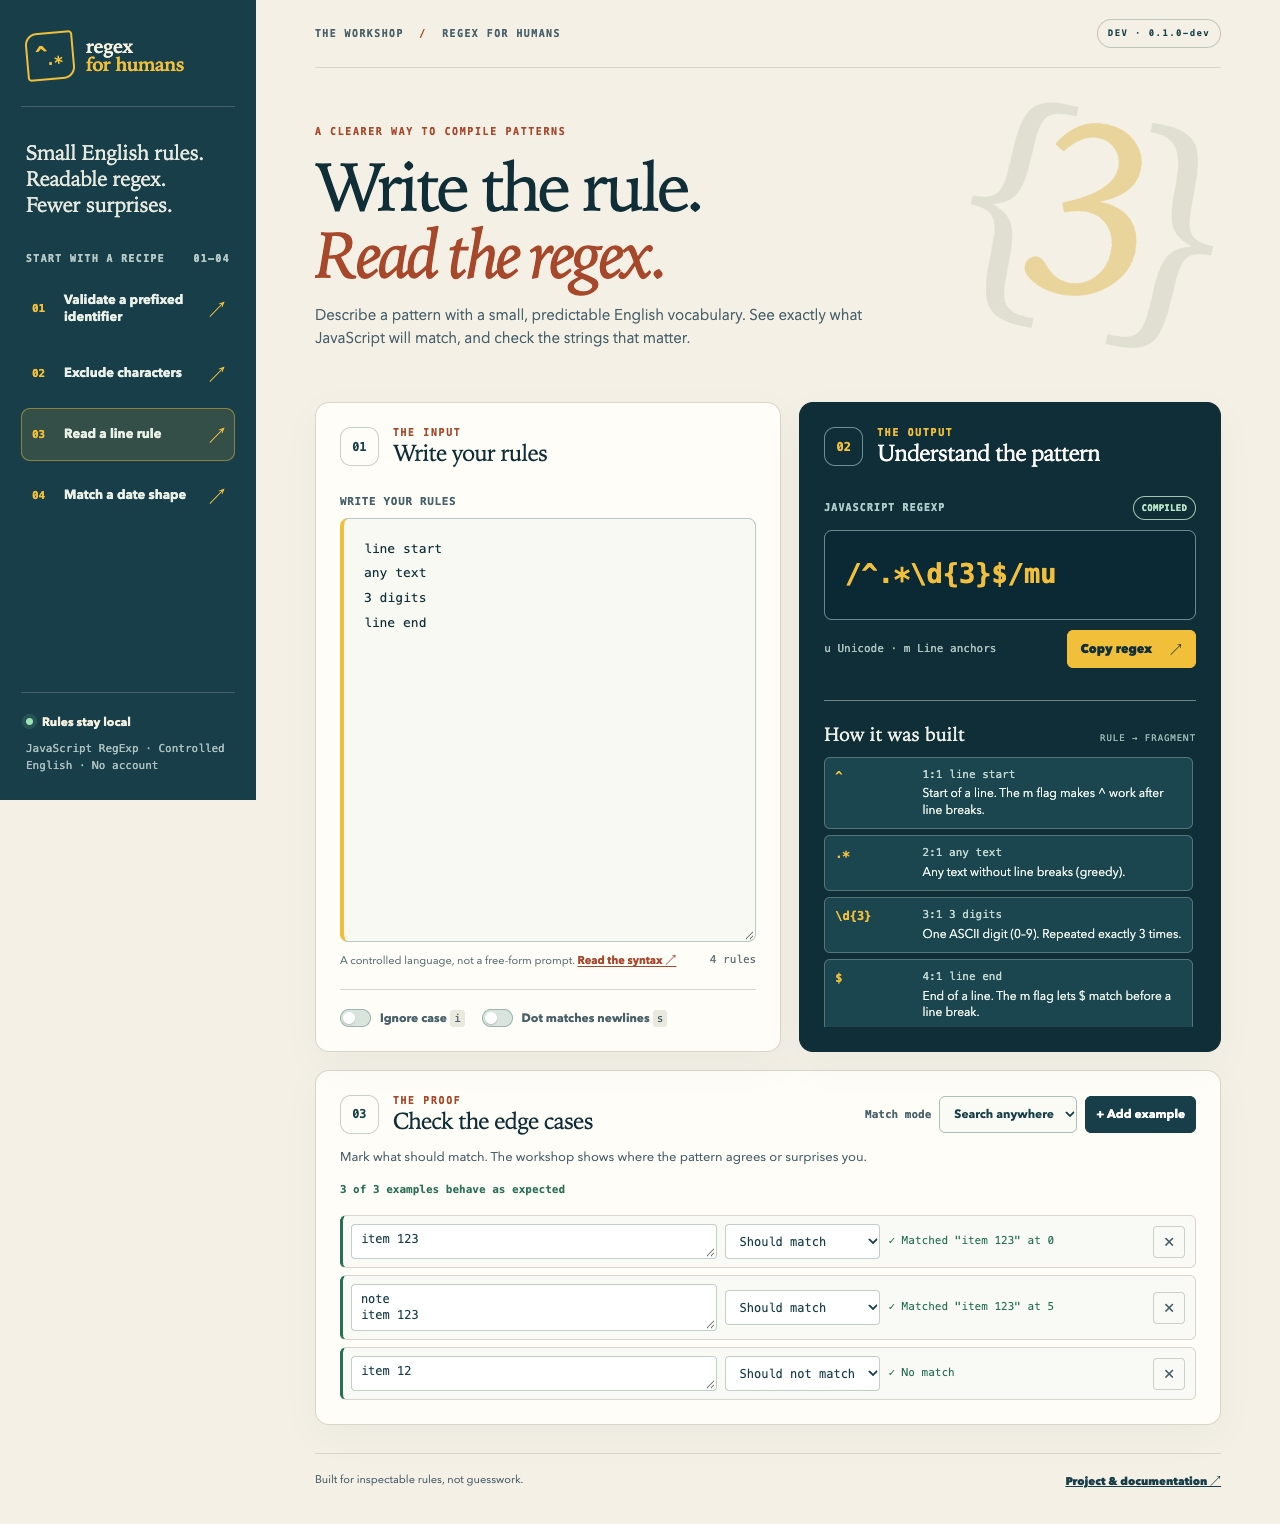
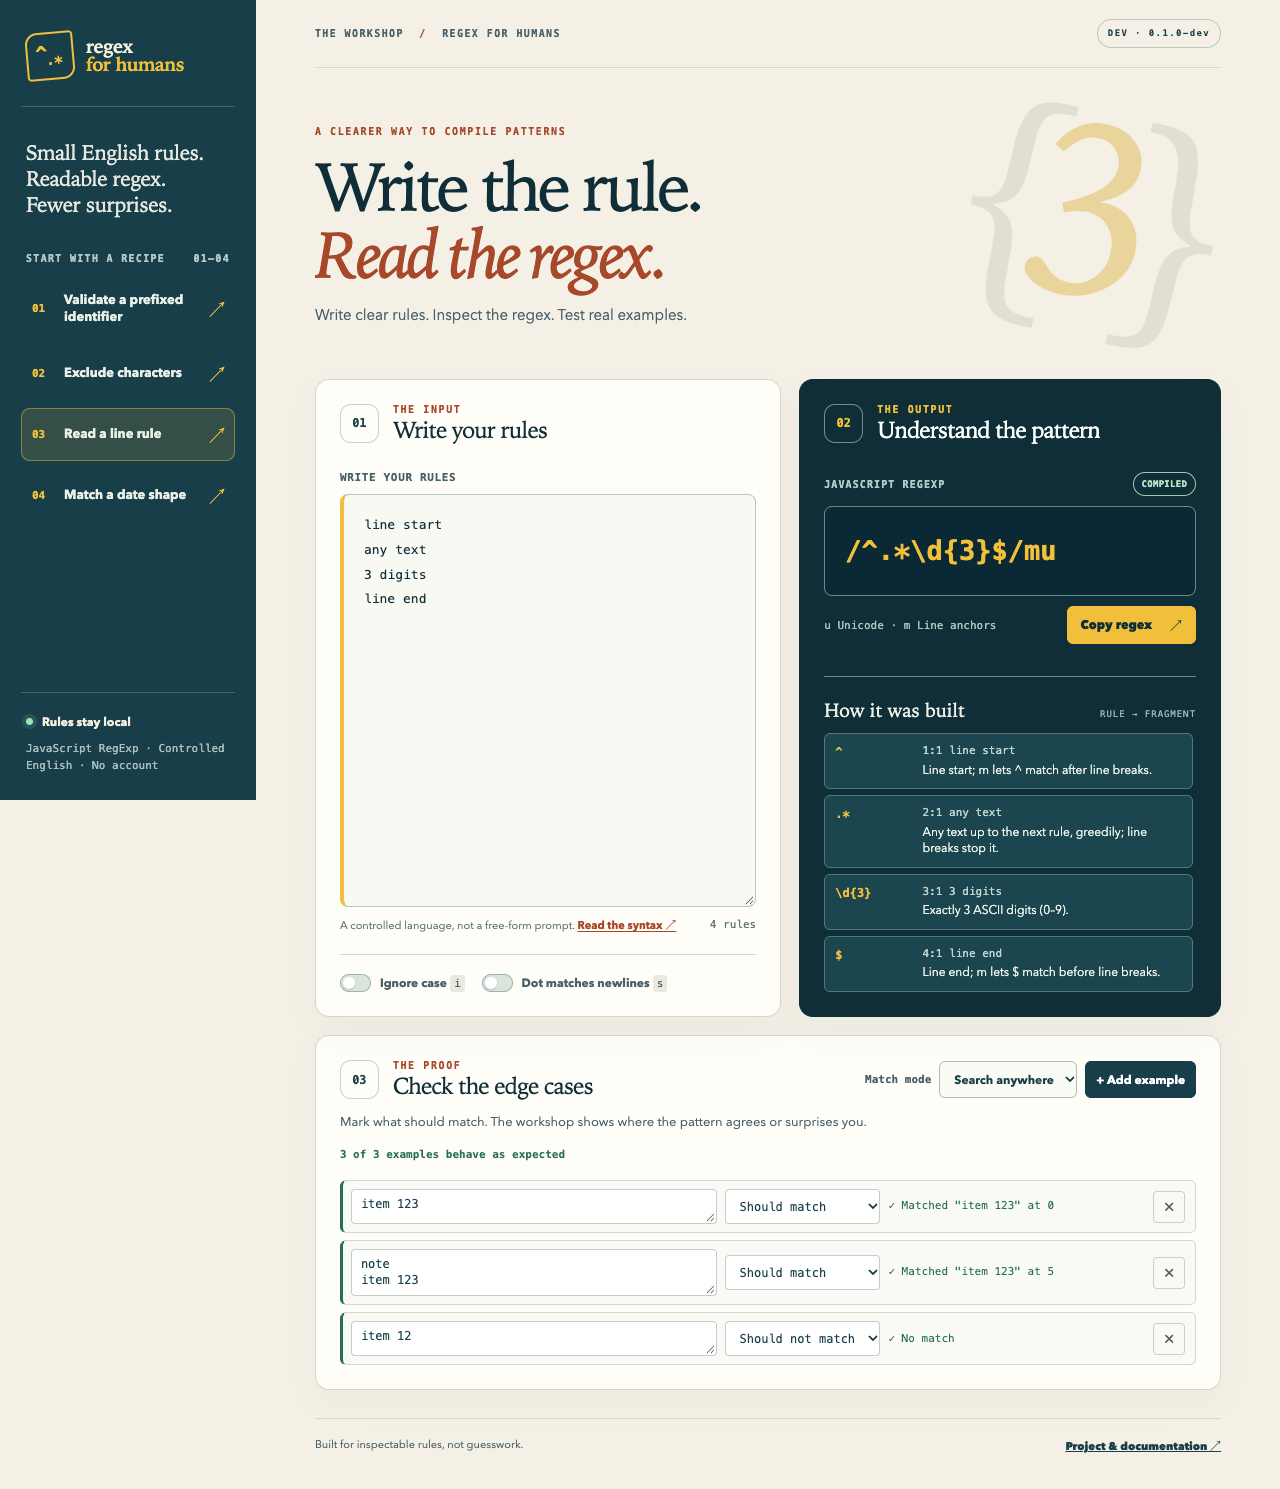
docs(site): refresh workshop screenshots and evidence

diff --git a/site/index.html b/site/index.html
@@ -80,7 +80,7 @@ end</code></pre>
         <a class="text-link" href="./workshop/">Open the workshop <span aria-hidden="true">↗</span></a>
       </div>
       <a class="workshop-preview" href="./workshop/" aria-label="Open the interactive Regex For Humans workshop">
-        <img src="./assets/workshop-preview.png?v=725eda2b3387" alt="The workshop compiles start &quot;ABC&quot;, 3 digits, and end to ^ABC\d{3}$. All four examples pass." loading="lazy" width="1280" height="1544">
+        <img src="./assets/workshop-preview.png?v=674814dbda1c" alt="The workshop compiles start &quot;ABC&quot;, 3 digits, and end to ^ABC\d{3}$. All four examples pass." loading="lazy" width="1280" height="1521">
         <span class="preview-tag">LIVE WORKSHOP <b aria-hidden="true">↗</b></span>
       </a>
       <p class="workshop-caption"><span class="online-dot" aria-hidden="true"></span> Rules and examples are compiled and tested in your browser. No account required.</p>

diff --git a/ROADMAP.md b/ROADMAP.md
@@ -15,13 +15,13 @@ Cocher une tâche uniquement après vérification de tous ses critères. Les dé
 - [x] 2.2 Atelier web local — build statique avec ressources versionnées par contenu, 4 recettes, copie réelle, diagnostics, console et requêtes locales vérifiés ; tests navigateur bureau/mobile verts
 - [x] 2.3 Tests positifs et négatifs — 16 tests navigateur verts : ancres, Unicode, saut de ligne, modes, édition et écarts ; isolation contre exécution longue suivie en 3.2
 - [ ] 2.4 Interface et accessibilité — rendu et clavier vérifiés, 14 tests axe/Playwright verts localement le 27 septembre ; lecteur d'écran réel et 3 nouvelles personnes encore requis
-- [x] 3.1 Tests et compatibilité — 59 tests Node passés localement sous Node 25.9.0 ; CI verte, 59 tests Node et 44 tests navigateur (run `36358574720`, commit `04e583f`) le 28 septembre 2026, sur Linux Node 22/24, macOS/Windows Node 24 et Chromium Linux ; format, lint, audit npm, typage, build et installation propre vérifiés ; limites documentées dans `docs/TESTING.md`
-- [x] 3.2 Bornes et sécurité de l'exécution — limites documentées, worker interrompable, timeout/récupération, source regex échappée et entrée HTML testés ; 44 tests navigateur verts le 28 septembre 2026 (run `36358574720`) ; `npm audit` vérifié sous Node 24
+- [x] 3.1 Tests et compatibilité — 59 tests Node passés localement sous Node 25.9.0 ; CI verte, 59 tests Node et 44 tests navigateur (run `36359367488`, commit `405ed23`) le 28 septembre 2026, sur Linux Node 22/24, macOS/Windows Node 24 et Chromium Linux ; format, lint, audit npm, typage, build et installation propre vérifiés ; limites documentées dans `docs/TESTING.md`
+- [x] 3.2 Bornes et sécurité de l'exécution — limites documentées, worker interrompable, timeout/récupération, source regex échappée et entrée HTML testés ; 44 tests navigateur verts le 28 septembre 2026 (run `36359367488`) ; `npm audit` vérifié sous Node 24
 - [ ] 3.3 Architecture et politique de changements — guide, liens et exercice interne vérifiés (`docs/CONTRIBUTION-EXERCISE.md`) ; revue par un contributeur extérieur encore requise
 - [ ] 4.1 README et premier succès — README réécrit, exemples CLI/bibliothèque contrôlés et site projet publié ; relecture par un novice encore requise
 - [ ] 4.2 Captures réelles — captures bureau/mobile du build local `0.1.0-dev` ajoutées au README avec provenance et SHA-256 ; captures de la version publiée à refaire après 2.4
 - [ ] 4.3 Contribution et présentation GitHub — politiques sécurité/changelog et modèles d'issues/PR présents ; API confirme le signalement privé, la description, 12 topics et la page d'accueil ; aperçu GitHub non vérifié (connexion requise) ; démo publique disponible
[2 lines of base64/hex data omitted]
 - [ ] 5.2 Package publié et atelier déployé — tarball local testé ; site projet et atelier vérifiés en HTTPS le 28 septembre (Pages commit `0aced13`, build réussi, asset `d12efdef53f1`, quatre recettes courtes vérifiées) ; workflows de release depuis un tag stable contrôlés par `actionlint` ; registry npm renvoie 404 ; stable tag et release restent à publier
 - [ ] 5.3 Décision et validation des binaires — voie npm/Node retenue provisoirement dans `docs/DISTRIBUTION.md` ; besoin de binaire à mesurer dans les séances utilisateurs avant décision finale
 - [ ] 5.4 Release publiée et vérifiée

diff --git a/media/screenshots/README.md b/media/screenshots/README.md
@@ -1,10 +1,16 @@
 # Screenshot evidence
 
-Both files are full-page Chrome captures of the local static workshop, built from commit `b19b694` with `npm run build` and served at `http://127.0.0.1:4175/` on 27 September 2026. They show the `line-rule` recipe with short rules: `line start`, `any text`, `3 digits`, and `line end`. All three example checks pass. The desktop view lists all four recipes; the mobile list scrolls. Both show `Rules stay local` and the visible `DEV · 0.1.0-dev` label. No interface elements, examples or results were composited or edited. The screenshots contain only project-owned UI and system fonts.
+Both files are full-page Chrome captures of the local static workshop, built from commit `405ed23` with `npm run build:pages` and served at `http://127.0.0.1:4177/` on 28 September 2026. They show the `line-rule` recipe: `line start`, `any text`, `3 digits`, `line end`. All three example checks pass. The desktop view lists all four recipes; the mobile recipe bar scrolls. Both show `Rules stay local`, the visible `DEV · 0.1.0-dev` label and the shorter explanation `Exactly 3 ASCII digits (0–9).` No interface elements, examples or results were composited or edited. The screenshots contain only project-owned UI and system fonts.
 
 | File | Viewport | Pixels | Size | SHA-256 |
 | --- | --- | --- | --- | --- |
[4 lines of base64/hex data omitted]
 
-The output `/^.*\d{3}$/mu` and three expected sample results match `test/fixtures/product-scenarios.json`. These are local development captures, not published-release evidence. Re-capture from the final tested build after UX reviews before closing roadmap task 4.2.
+The homepage preview at `site/assets/workshop-preview.png` is a separate capture of `prefixed-identifier`; its four sample checks pass.
+
+| File | Viewport | Pixels | Size | SHA-256 |
+| --- | --- | --- | --- | --- |
[1 lines of base64/hex data omitted]
+
+These are local development captures, not published-release evidence. Re-capture from the final tested build after UX reviews before closing roadmap task 4.2.

diff --git a/docs/TESTING.md b/docs/TESTING.md
@@ -4,11 +4,11 @@ The package declares Node.js `>=22`. These results passed on 28 September 2026:
 
 | Node version | Verification |
 | --- | --- |
-| 22.x | GitHub Actions run `36358574720` |
-| 24.x | GitHub Actions run `36358574720` |
+| 22.x | GitHub Actions run `36359367488` |
+| 24.x | GitHub Actions run `36359367488` |
 | 25.9.0 | `npm run check`, `npm test` — 59 tests, `npm run test:package`, and `npm run test:browser` — 44 tests |
 
[2 lines of base64/hex data omitted]
 
 ## Reproduce locally
 
